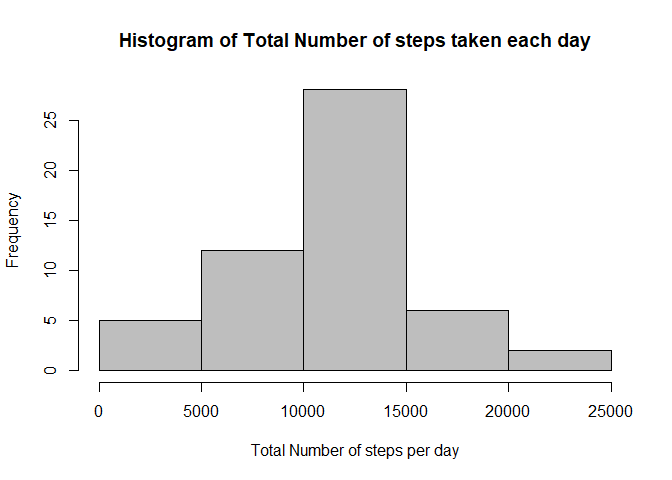
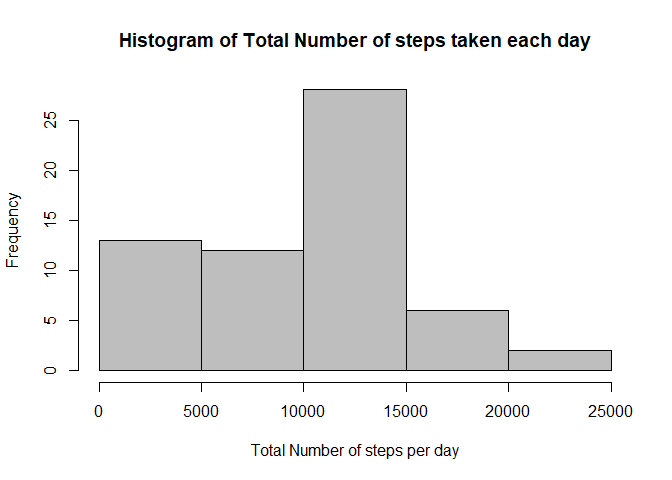
Fourth Commit
Previously forgot to include the other files along with Rmd

Changed region(s): [[0.125, 0.5, 0.3125, 0.6875]]

diff --git a/PA1_template.html b/PA1_template.html
@@ -154,18 +154,21 @@ head(activity_complete)</code></pre>
 </div>
 <div id="mean-and-median-of-the-total-number-of-steps-taken-per-day" class="section level4">
 <h4>MEAN AND MEDIAN OF THE TOTAL NUMBER OF STEPS TAKEN PER DAY</h4>
-<pre class="r"><code>Total_steps &lt;- tapply(activity_complete$steps, activity_complete$date, sum)
-
-#Histogram of total number of steps taken each day
+<pre class="r"><code>Total_steps &lt;- tapply(activity$steps, activity$date, sum, na.rm = TRUE)
+print(mean(Total_steps))</code></pre>
+<pre><code>## [1] 9354.23</code></pre>
+<pre class="r"><code>print(median(Total_steps))</code></pre>
+<pre><code>## [1] 10395</code></pre>
+<pre class="r"><code>#Histogram of total number of steps taken each day
 hist(Total_steps, col = &quot;grey&quot;, xlab = &quot;Total Number of steps per day&quot;, ylab = &quot;Frequency&quot;, main = &quot;Histogram of Total Number of steps taken each day&quot;)</code></pre>
[2 lines of base64/hex data omitted]
 <pre class="r"><code>dev.copy(png, file = &quot;plot_1.png&quot;)</code></pre>
 <pre><code>## png 
 ##   3</code></pre>
 <pre class="r"><code>dev.off()</code></pre>
 <pre><code>## png 
 ##   2</code></pre>
-<pre class="r"><code>#Mean &amp; Median of total number of steps taken each day
+<pre class="r"><code>#Mean &amp; Median of total number of steps taken each day without missing values
 Mean &lt;- aggregate(steps ~ date, activity_complete, mean)
 Median &lt;- aggregate(steps ~ date, activity_complete, median)
 Mean_and_Median &lt;- merge(Mean, Median, by.x = &quot;date&quot;, by.y = &quot;date&quot;, all = TRUE)
@@ -271,7 +274,11 @@ Activity &lt;- arrange(Activity, date)
 
 #Histogram, Mean and Median of Total number of steps taken each day
 New_Total_steps &lt;- aggregate(steps ~ date, Activity, sum)
-hist(New_Total_steps$steps, col = &quot;dark green&quot;, xlab = &quot;Total number of steps taken per day&quot;, ylab = &quot;Frequency&quot;, main = &quot;Histogram of Total number of stpes taken each day&quot;)</code></pre>
+print(mean(New_Total_steps$steps))</code></pre>
+<pre><code>## [1] 9503.869</code></pre>
+<pre class="r"><code>print(median(New_Total_steps$steps))</code></pre>
+<pre><code>## [1] 10395</code></pre>
+<pre class="r"><code>hist(New_Total_steps$steps, col = &quot;dark green&quot;, xlab = &quot;Total number of steps taken per day&quot;, ylab = &quot;Frequency&quot;, main = &quot;Histogram of Total number of stpes taken each day&quot;)</code></pre>
[1 lines of base64/hex data omitted]
 <pre class="r"><code>dev.copy(png, file = &quot;plot_3.png&quot;)</code></pre>
 <pre><code>## png 
@@ -279,8 +286,7 @@ hist(New_Total_steps$steps, col = &quot;dark green&quot;, xlab = &quot;Total num
 <pre class="r"><code>dev.off()</code></pre>
 <pre><code>## png 
 ##   2</code></pre>
-<pre class="r"><code>#Impact on imupting missing data on the estimates of the total daily number of steps can be explained in accordance to the histogram where there is a gradual increase in the frequency of range of values (Total steps taken per day)
-New_Mean_steps &lt;- aggregate(steps ~ date, Activity, mean)
+<pre class="r"><code>New_Mean_steps &lt;- aggregate(steps ~ date, Activity, mean)
 New_Median_steps &lt;- aggregate(steps ~ date, Activity, median)
 New_mean_and_median &lt;- merge(New_Mean_steps, New_Median_steps, by.x = &quot;date&quot;, by.y = &quot;date&quot;, all = TRUE)
 names(New_mean_and_median)[2:3] &lt;- c(&quot;mean&quot;, &quot;median&quot;)

diff --git a/PA1_template.md b/PA1_template.md
@@ -8,7 +8,6 @@ output:
 ---
 
 
-
 ####LOAD AND PREPROCESS/TRANSFORM THE DATA INTO SUITABLE FORMAT FOR ANALYSIS
 
 1. Load & Read the data using read.csv() setting the argument stringAsFactors = FALSE.
@@ -42,8 +41,23 @@ head(activity_complete)
 
 
 ```r
-Total_steps <- tapply(activity_complete$steps, activity_complete$date, sum)
+Total_steps <- tapply(activity$steps, activity$date, sum, na.rm = TRUE)
+print(mean(Total_steps))
+```
 
+```
+## [1] 9354.23
+```
+
+```r
+print(median(Total_steps))
+```
+
+```
+## [1] 10395
+```
+
+```r
 #Histogram of total number of steps taken each day
 hist(Total_steps, col = "grey", xlab = "Total Number of steps per day", ylab = "Frequency", main = "Histogram of Total Number of steps taken each day")
 ```
@@ -69,7 +83,7 @@ dev.off()
 ```
 
 ```r
-#Mean & Median of total number of steps taken each day
+#Mean & Median of total number of steps taken each day without missing values
 Mean <- aggregate(steps ~ date, activity_complete, mean)
 Median <- aggregate(steps ~ date, activity_complete, median)
 Mean_and_Median <- merge(Mean, Median, by.x = "date", by.y = "date", all = TRUE)
@@ -221,6 +235,22 @@ Activity <- arrange(Activity, date)
 
 #Histogram, Mean and Median of Total number of steps taken each day
 New_Total_steps <- aggregate(steps ~ date, Activity, sum)
+print(mean(New_Total_steps$steps))
+```
+
+```
+## [1] 9503.869
+```
+
+```r
+print(median(New_Total_steps$steps))
+```
+
+```
+## [1] 10395
+```
+
+```r
 hist(New_Total_steps$steps, col = "dark green", xlab = "Total number of steps taken per day", ylab = "Frequency", main = "Histogram of Total number of stpes taken each day")
 ```
 
@@ -245,7 +275,6 @@ dev.off()
 ```
 
 ```r
-#Impact on imupting missing data on the estimates of the total daily number of steps can be explained in accordance to the histogram where there is a gradual increase in the frequency of range of values (Total steps taken per day)
 New_Mean_steps <- aggregate(steps ~ date, Activity, mean)
 New_Median_steps <- aggregate(steps ~ date, Activity, median)
 New_mean_and_median <- merge(New_Mean_steps, New_Median_steps, by.x = "date", by.y = "date", all = TRUE)
@@ -378,4 +407,3 @@ dev.off()
 ## png 
 ##   2
 ```
-
